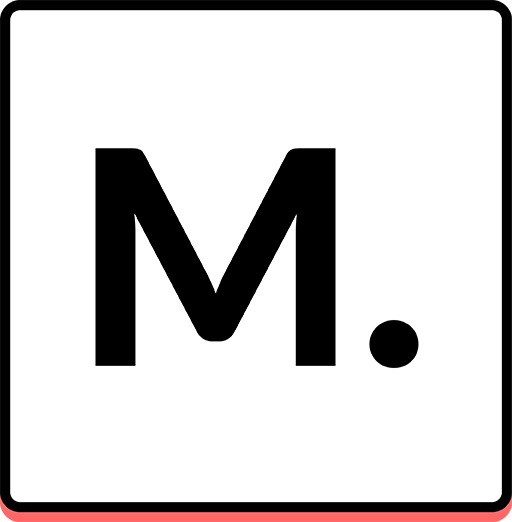
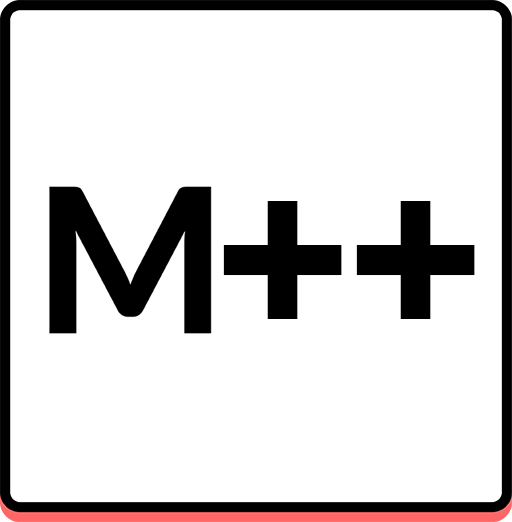
Complete rebrand

Changed region(s): [[0.0938, 0.2759, 0.9375, 0.705]]

diff --git a/src/app.html b/src/app.html
@@ -2,14 +2,14 @@
 <html lang="en">
   <head>
     <meta charset="UTF-8" />
-    <title>Mechvibes -Modified by Pyro-</title>
+    <title>MechvibesPlusPlus</title>
     <meta http-equiv="Content-Security-Policy" content="script-src 'self' 'unsafe-inline';" />
     <link rel="shortcut icon" type="image/png" href="./assets/icon.png" />
     <link rel="stylesheet" href="./assets/milligram.min.css" />
     <link rel="stylesheet" href="./assets/app.css" />
   </head>
 
-  <body style="padding: 2rem">
+  <body style="padding: 2rem; background-color:#121212;"></body>
     <div id="app-logo">
       <div id="logo">Loading...</div>
     </div>
@@ -19,16 +19,16 @@
         <tbody>
           <tr>
             <td colspan="2">
-              <select id="pack-list" class="custom-input mb-0" style="width: 100%; margin-right: 10px"></select>
+              <select id="pack-list" class="custom-input mb-0" style="width: 100%; margin-right: 10px; background-color:#1f1f1f; color:#adadad"></select>
               <div style="text-align: right">
                 <small>
-                  <a href="https://mechvibes.com/sound-packs/" class="open-in-browser">More sounds...</a>
+                  <a href="https://discord.gg/NzeXc8gMWW" class="open-in-browser">Join our Discord.</a>
                 </small>
               </div>
             </td>
           </tr>
           <tr>
-            <td style="width: 50%">Volume <span id="volume-value-display" style="font-weight: bold"></span></td>
+            <td style="width: 50%; color:#ebebeb"; color=>Volume <span id="volume-value-display" style="font-weight: bold; color:#ebebeb"></span></td>
             <td style="width: 50%">
               <input type="range" min="0" max="100" value="20" step="5" class="slider mb-0" id="volume" style="width: 100%" />
             </td>
@@ -36,20 +36,13 @@
         </tbody>
       </table>
       <div class="divider"></div>
-      <div style="color: #666; font-size: 12px; text-align: center">
-        <p>Made with ❤ by <a href="https://github.com/hainguyents13/mechvibes/" class="open-in-browser">hainguyents13</a></p>
-        <p>
-          <a href="https://mechvibes.com" class="open-in-browser">Home page</a>
-          &nbsp;&nbsp;|&nbsp;&nbsp;
-          <a href="https://mechvibes.com/#qna" class="open-in-browser">FAQs</a>
-          &nbsp;&nbsp;|&nbsp;&nbsp;
-          <a href="https://buymeacoff.ee/hainguyents13" class="open-in-browser">Buy me a coffee</a>
-        </p>
-        <p id="app-version" style="color: #999">-</p>
+      <div style="color: #ebebeb; font-size: 12px; text-align: center">
+        <p>Made with ❤ by <a href="https://github.com/PyroCalzone/MechVibesPlusPlus" class="open-in-browser">Pyro & Saturn</a></p>
+        <p id="app-version" style="color: #9b9b9b">-</p>
         <div id="update-available" class="hidden">
-          New version of ModifiedMechvibes is available (<span id="new-version">-</span>)
+          New version of MechvibesPlusPlus is available (<span id="new-version">-</span>)
           <div style="margin-top: 5px">
-            <a href="https://github.com/PyroCalzone/MechVibesModified/releases/latest" class="open-in-browser">Check it out</a>
+            <a href="https://github.com/PyroCalzone/MechVibesPlusPlus/releases/latest" class="open-in-browser">Check it out</a>
           </div>
         </div>
       </div>

diff --git a/src/assets/app.css b/src/assets/app.css
@@ -16,15 +16,15 @@ a:hover {
 #logo {
   font-family: sans-serif;
   transition: all 0.1s ease;
-  box-shadow: 0 2px #ff6666;
+  box-shadow: 0 2px #6b6b6b;
   font-size: 3rem;
   font-weight: 600;
-  background: #fff;
+  background: #181818;
   text-align: center;
   border-radius: 0.5rem;
-  border: 2px solid #000;
+  border: 2px solid #7c7c7c;
   padding: 1rem 2rem;
-  color: #333;
+  color: #8a8a8a;
 }
 
 #logo.pressed {
@@ -40,15 +40,15 @@ a:hover {
 .divider {
   display: block;
   width: 100%;
-  border-bottom: 1px solid #e4e4e4;
+  border-bottom: 1px solid #6b6b6b;
   margin-top: 1rem;
   margin-bottom: 2rem;
 }
 
 #update-available {
   padding: 8px 5px;
-  border: 1px solid #ffb8b8;
-  background: #fff2f2;
+  border: 1px solid #505050;
+  background: #161616;
   border-radius: 5px;
 }
 
@@ -62,7 +62,7 @@ a:hover {
   appearance: none;
   width: 100%;
   height: 5px;
-  background: #d8d8d8;
+  background: #6b6b6b;
   outline: none;
   opacity: 0.7;
   -webkit-transition: 0.2s;

diff --git a/src/main.js b/src/main.js
@@ -111,16 +111,16 @@ if (!gotTheLock) {
     tray = new Tray(SYSTRAY_ICON);
 
     // tray icon tooltip
-    tray.setToolTip('Mechvibes');
+    tray.setToolTip('MechvibesPlusPlus');
 
     const startup_handler = new StartupHandler(app);
     const listen_handler = new ListenHandler(app);
-    const keyup_handler = new KeyupHandler(app)
+    const keyup_handler = new KeyupHandler(app);
 
     // context menu when hover on tray icon
     const contextMenu = Menu.buildFromTemplate([
       {
-        label: 'Mechvibes',
+        label: 'MechvibesPlusPlus',
         click: function () {
           // show app on click
           win.show();
@@ -155,7 +155,7 @@ if (!gotTheLock) {
         keyup_handler.toggle();
         win.webContents.send('theKeyup', keyup_handler.is_keyup);
       },
-    },
+      },
       {
         label: 'Enable at Startup',
         type: 'checkbox',

diff --git a/src/app.js b/src/app.js
@@ -111,7 +111,7 @@ function checkIfAllSoundLoaded(status_display_elem, app_body) {
       return false;
     }
   });
-  status_display_elem.innerHTML = 'Mechvibes';
+  status_display_elem.innerHTML = 'Mechvibes++';
   app_body.classList.remove('loading');
   return true;
 }
@@ -218,7 +218,7 @@ function packsToOptions(packs, pack_list) {
     packsToOptions(packs, pack_list);
 
     // check for new version
-    fetch('https://api.github.com/repos/PyroCalzone/MechVibesModified/releases/latest')
+    fetch('https://api.github.com/repos/PyroCalzone/MechVibesPlusPlus/releases/latest')
       .then((res) => res.json())
       .then((json) => {
         if (json.tag_name > APP_VERSION) {
